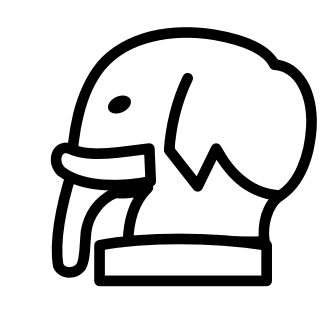
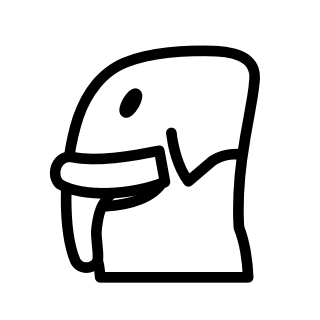
Redraw the Elephant from Mac's new reference
Flat bottom like the knight, no base, no shading, knight-style eye.
Kept as option E alongside the earlier attempts.

Changed region(s): [[0.1562, 0.0625, 1.0, 0.9062], [0.3125, 0.25, 0.4688, 0.375]]

diff --git a/CLAUDE.md b/CLAUDE.md
@@ -32,7 +32,7 @@ Everything in the rules engine should be built so standard chess is just one con
 * Mobile is a must: portrait layout (720x1280 viewport, scales to any screen; 450x800 window on PC), tap-to-move (a mouse click works the same). Board uses classic light/dark squares (#F0D9B5 / #B58863).
 * Piece art: the "Cburnett" set from Wikimedia Commons (Mac supplied the sprite sheet). It is licensed (CC BY-SA 3.0 / GPL / BSD / GFDL), so a published game must credit it (e.g. "Chess pieces by Cburnett, CC BY-SA 3.0") — remind Mac before any release. Style folder: `res://art/pieces/standard/`. New piece types will need matching art (ask Mac).
 * Board orientation: White always at the bottom, nothing drawn upside down (no flipping).
-* First custom piece: the **Elephant** (`res://data/pieces/elephant.tres`, symbol E): jumps exactly 2 squares diagonally (can't be blocked, stays on one colour), captures the same way. Value 1.5 (`PieceDef.value` is a float). Art: option D in `res://art/source/elephant_options/` (side view with dome head, hanging trunk, curved tusk, notched ear and collar, modelled on a reference Mac supplied); A/B/C kept there as alternatives.
+* First custom piece: the **Elephant** (`res://data/pieces/elephant.tres`, symbol E): jumps exactly 2 squares diagonally (can't be blocked, stays on one colour), captures the same way. Value 1.5 (`PieceDef.value` is a float). Art: option E in `res://art/source/elephant_options/`, traced from Mac's second reference image: side view facing left, low dome head flowing into a wide trunk, banana-shaped ivory tusk, notched ear line, jaw line, no base (flat bottom like the knight), no shading, knight-style eye. A–D kept there as earlier attempts.
 * Custom piece art is drawn by Claude as SVG in the Cburnett style (45x45 canvas, 1.5 black outline, white or black fill, white detail lines on black pieces), saved in `res://art/source/pieces/<team>_<id>.svg`, rendered to PNG with `tools/render_piece_svg.gd`. Offer Mac a few options per piece.
 * Draws end the game automatically: 50-move rule, threefold repetition, and positions where checkmate is impossible (worked out from move data; custom pieces will need more thought later).
 
